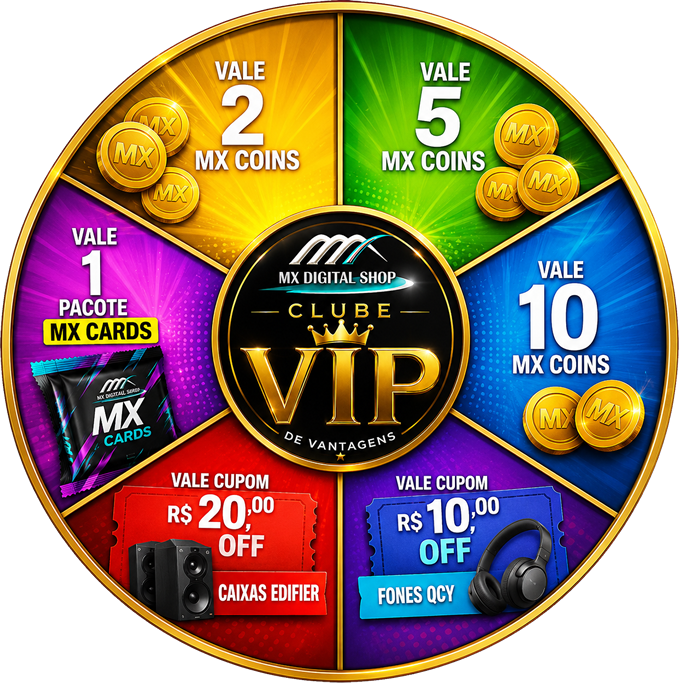
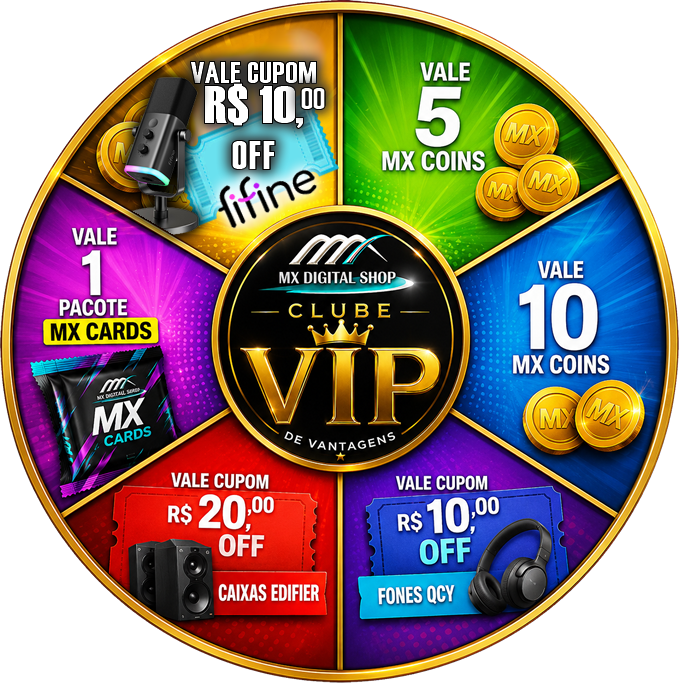
Add files via upload

Changed region(s): [[0.1546, 0.0307, 0.4948, 0.369]]

diff --git a/index.html b/index.html
@@ -99,16 +99,16 @@
         }
         .roulette-marker {
             position: absolute;
-            top: -6px;
+            top: -12px;
             left: 50%;
             transform: translateX(-50%);
             width: 0;
             height: 0;
-            border-left: 8px solid transparent;
-            border-right: 8px solid transparent;
-            border-top: 14px solid #ef4444;
+            border-left: 10px solid transparent;
+            border-right: 10px solid transparent;
+            border-top: 18px solid #ef4444;
             z-index: 30;
-            filter: drop-shadow(0 2px 4px rgba(0,0,0,0.2));
+            filter: drop-shadow(0 2px 4px rgba(0,0,0,0.3));
         }
 
         /* Timer Flutuante e Efeitos */
@@ -244,7 +244,7 @@
                     <div class="flex-1 flex flex-col justify-between h-full py-1">
                         <div>
                             <h4 class="font-black text-orange-500 uppercase tracking-wider text-xs">🎰 MX GIRO DA SORTE</h4>
-                            <p class="text-[10px] text-gray-500 mt-0.5 leading-tight">Ganhe Moedas, Cupons Edifier, QCY ou pacotes de Cards!</p>
+                            <p class="text-[10px] text-gray-500 mt-0.5 leading-tight">Ganhe Moedas, Cupons Edifier, QCY, Fifine ou pacotes de Cards!</p>
                         </div>
                         <button id="btn-spin" onclick="spinRoulette()" class="mt-3 bg-gradient-to-r from-orange-400 to-orange-500 text-white font-black py-2 rounded-lg tracking-wide uppercase shadow border-0 transition active:scale-95 cursor-pointer w-full text-center">
                             🎲 GIRAR POR 🪙3 MX
@@ -310,7 +310,7 @@
         <div id="tab-produtos" class="tab-content hidden space-y-4">
             <div class="bg-orange-50 p-2.5 rounded-lg border border-orange-100 text-[11px] text-orange-700 flex items-center gap-2">
                 <span>🔥</span>
-                <p>Toque em qualquer card de produto para ver as especificações e garantir seu desconto exclusivo no WhatsApp!</p>
+                <p>Toque em qualquer card para comprar no WhatsApp com cupom ativo e garantia de entrega!</p>
             </div>
             <div class="shopee-grid" id="products-list"></div>
         </div>
@@ -331,23 +331,19 @@
             <div class="space-y-4 text-xs text-gray-600 leading-relaxed">
                 <div>
                     <h4 class="font-extrabold text-gray-900 text-sm mb-1">🎯 1. Objetivo</h4>
-                    <p>Colecione todos os **24 MX Cards** exclusivos dentro do aplicativo para completar o seu álbum digital de equipamentos de áudio e estúdio[cite: 1].</p>
+                    <p>Colecione todos os **24 MX Cards** para fechar seu álbum digital[cite: 1].</p>
                 </div>
                 <div>
                     <h4 class="font-extrabold text-gray-900 text-sm mb-1">🔄 2. Sistema de Trocas (3 por 1)</h4>
-                    <p>Tem cartas repetidas? Assim que você acumular **3 ou mais cópias** de qualquer card, você pode trocá-las instantaneamente por um pacote novinho contendo 3 cards surpresas clicando no botão que aparece abaixo da carta!</p>
+                    <p>Acumule **3 ou mais cópias** de qualquer card para trocá-las instantaneamente por um pacote novinho contendo 3 cartas surpresa!</p>
                 </div>
                 <div>
                     <h4 class="font-extrabold text-gray-900 text-sm mb-1">💰 3. O Grande Prêmio</h4>
-                    <p>O primeiro participante que completar a coleção completa receberá um **MX SUPER PIX de R$ 1.000,00**[cite: 1]. A retirada é feita clicando no botão oficial de resgate[cite: 1].</p>
+                    <p>O primeiro participante que completar a coleção completa receberá um **MX SUPER PIX de R$ 1.000,00**[cite: 1].</p>
                 </div>
                 <div>
-                    <h4 class="font-extrabold text-gray-900 text-sm mb-1">⏱ 4. Timer de Recompensas</h4>
-                    <p>Fique de olho no timer flutuante de 15 segundos! Quando a contagem zerar, o botão ficará pronto e verde. Toque nele para coletar +2 MX Coins na hora!</p>
-                </div>
-                <div>
-                    <h4 class="font-extrabold text-gray-900 text-sm mb-1">⚠ 5. Expiração Diária de Cupons</h4>
-                    <p>Atenção! Todos os prêmios acumulados no Baú (Cupons, Vales-Brindes e pacotes extras) **expiram e deixam de valer no final do dia (à meia-noite)**. Use seus cupons e descontos antes que o dia termine![cite: 1]</p>
+                    <h4 class="font-extrabold text-gray-900 text-sm mb-1">⚠ 4. Expiração Diária de Cupons</h4>
+                    <p>Atenção! Todos os prêmios acumulados no Baú (Cupons e Vales-Brindes) **expiram e deixam de valer à meia-noite**[cite: 1]. Use seus descontos antes que o dia termine![cite: 1]</p>
                 </div>
             </div>
 
@@ -449,48 +445,48 @@
     <script>
         const CARD_24_LIBERADO = false; 
 
+        // Adicionada a quantidade de vendas simuladas (estilo Shopee) para prova social
         const PRODUCTS_DATA = [
-            { id: 1, name: "Tripé Ulanzi TT88", brand: "Ulanzi", price: 149.90, main_image: "MXCARD1.jpg", desc: "Tripé portátil de alta qualidade para criadores de conteúdo. Super leve, robusto e ideal para gravações de lives." },
-            { id: 2, name: "LED Ulanzi VL120 RGB", brand: "Ulanzi", price: 189.90, main_image: "MXCARD2.jpg", desc: "Iluminador LED compacto de bolso com controle total RGB. Perfeito para dar aquela atmosfera neon estilosa aos seus vídeos." },
-            { id: 3, name: "Mic Lapela Ulanzi A200", brand: "Ulanzi", price: 299.90, main_image: "MXCARD3.jpg", desc: "Microfone de tempo real sem fio com excelente cancelamento de ruído. Captação limpa e nítida para vlogs." },
-            { id: 4, name: "Microfone FIFINE AM8", brand: "Fifine", price: 439.90, main_image: "MXCARD4.jpg", desc: "Microfone dinâmico profissional com conexões XLR e USB, além de iluminação RGB personalizável." },
-            { id: 5, name: "Suporte Fifine BM88", brand: "Fifine", price: 329.90, main_image: "MXCARD5.jpg", desc: "Braço articulado de perfil baixo (low-profile). Deixa seu setup limpo, escondendo-se abaixo do monitor." },
-            { id: 6, name: "Microfone FIFINE AM8T", brand: "Fifine", price: 499.90, main_image: "MXCARD6.jpg", desc: "Kit completo do consagrado microfone dinâmico AM8 acompanhado de um braço articulado robusto de fábrica." },
-            { id: 7, name: "Caixa BT Tronsmart T8", brand: "Tronsmart", price: 219.90, main_image: "MXCARD7.jpg", desc: "Caixa de som Bluetooth portátil com graves reforçados e proteção contra respingos. Som de alta fidelidade." },
-            { id: 8, name: "QCY T13", brand: "QCY", price: 129.90, main_image: "MXCARD8.jpg", desc: "O campeão mundial de custo-benefício em fones TWS. Bateria de longa duração e carregamento rápido." },
-            { id: 9, name: "QCY MELOBUDS N50", brand: "QCY", price: 159.90, main_image: "MXCARD9.jpg", desc: "Fone de ouvido ergonômico focado em isolamento acústico passivo e clareza vocal perfeita." },
-            { id: 10, name: "QCY MELOBUDS PRO BK", brand: "QCY", price: 249.90, main_image: "MXCARD10.jpg", desc: "Versão Pro com Cancelamento de Ruído Activo (ANC) avançado e drivers refinados para áudio de alta resolução." },
-            { id: 11, name: "QCY AILYBUDS PRO+", brand: "QCY", price: 219.90, main_image: "MXCARD11.jpg", desc: "Design semi-in-ear ultra confortável que não incomoda no ouvido, aliado a um codec de alta definição." },
-            { id: 12, name: "QCY H3 ANC", brand: "QCY", price: 299.90, main_image: "MXCARD12.jpg", desc: "Fone de ouvido no estilo Headphone com Cancelamento Ativo de Ruído de até 43dB. Almofadas macias."} ,
-            { id: 13, name: "QCY H3S", brand: "QCY", price: 349.90, main_image: "MXCARD13.jpg", desc: "Evolução da linha H3 com melhorias nos microfones para chamadas de voz e maior autonomia de bateria." },
-            { id: 14, name: "Tronsmart Mirtune S100", brand: "Tronsmart", price: 459.90, main_image: "MXCARD14.jpg", desc: "Caixa de som portátil premium com alça integrada. Som expansivo de alta potência ideal para qualquer ambiente." },
-            { id: 15, name: "Tronsmart Bang 2", brand: "Tronsmart", price: 699.90, main_image: "MXCARD15.jpg", desc: "Potência sonora animal! Luzes de LED rítmicas integradas e tecnologia patenteada SoundPulse." },
-            { id: 16, name: "Edifier M206BT", brand: "Edifier", price: 399.90, main_image: "MXCARD16.jpg", desc: "Sistema de caixas 2.1 com Subwoofer dedicado em madeira. Graves que fazem o ambiente tremer." },
-            { id: 17, name: "Mi TV STICK 4K 2ª Gen", brand: "Xiaomi", price: 329.90, main_image: "MXCARD17.jpg", desc: "Transforme qualquer TV em uma Smart TV veloz com resolução 4K Ultra HD e suporte a comandos de voz." },
-            { id: 18, name: "Climatizador Ventisol 16L", brand: "Ventisol", price: 489.90, main_image: "MXCARD18.jpg", desc: "Climatizador potente com grande reservatório de 16 litros. Ar fresco, umidificado e filtrado."} ,
-            { id: 19, name: "Gamesir G8 Galileo Plus", brand: "Gamesir", price: 479.90, main_image: "MXCARD19.jpg", desc: "O controle definitivo para jogos de celular. Analógicos com efeito Hall e encaixe ergonômico firme." },
-            { id: 20, name: "Mic Lapela Hollyland Lark M2", brand: "Hollyland", price: 999.90, main_image: "MXCARD20.jpg", desc: "Microfone sem fio nível cinematográfico do tamanho de um botão. Usado pelos maiores profissionais." },
-            { id: 21, name: "Tribit Stormbox Blast 2", brand: "Tribit", price: 1599.90, main_image: "MXCARD21.jpg", desc: "Considerada uma das melhores caixas de som Bluetooth do mundo na sua categoria. Potência descomunal." },
-            { id: 22, name: "Edifier R1000T4", brand: "Edifier", price: 549.90, main_image: "MXCARD22.jpg", desc: "Monitores de áudio activos clássicos em madeira. Som puríssimo, excelente para edição ou audição de estúdio." },
-            { id: 23, name: "Edifier MR4", brand: "Edifier", price: 699.90, main_image: "MXCARD23.jpg", desc: "Monitores de áudio profissionais calibrados para alta precisão acústica. Perfeitos para músicos." },
-            { id: 24, name: "Edifier R1700BT", brand: "Edifier", price: 899.90, main_image: "MXCARD24.jpg", desc: "Caixas de som residenciais Bluetooth com design angulado elegante e controle remoto incluso. [CARD ULTRA RARO]" }
+            { id: 1, name: "Tripé Ulanzi TT88", brand: "Ulanzi", price: 149.90, main_image: "MXCARD1.jpg", desc: "Tripé portátil de alta qualidade para criadores de conteúdo. Super leve, robusto e ideal para gravações de lives.", sales: 42, rating: 4.8 },
+            { id: 2, name: "LED Ulanzi VL120 RGB", brand: "Ulanzi", price: 189.90, main_image: "MXCARD2.jpg", desc: "Iluminador LED compacto de bolso com controle total RGB. Perfeito para dar aquela atmosfera neon estilosa aos seus vídeos.", sales: 79, rating: 4.9 },
+            { id: 3, name: "Mic Lapela Ulanzi A200", brand: "Ulanzi", price: 299.90, main_image: "MXCARD3.jpg", desc: "Microfone de tempo real sem fio com excelente cancelamento de ruído. Captação limpa e nítida para vlogs.", sales: 21, rating: 4.7 },
+            { id: 4, name: "Microfone FIFINE AM8", brand: "Fifine", price: 439.90, main_image: "MXCARD4.jpg", desc: "Microfone dinâmico profissional com conexões XLR e USB, além de iluminação RGB personalizável.", sales: 114, rating: 5.0 },
+            { id: 5, name: "Suporte Fifine BM88", brand: "Fifine", price: 329.90, main_image: "MXCARD5.jpg", desc: "Braço articulado de perfil baixo (low-profile). Deixa seu setup limpo, escondendo-se abaixo do monitor.", sales: 38, rating: 4.8 },
+            { id: 6, name: "Microfone FIFINE AM8T", brand: "Fifine", price: 499.90, main_image: "MXCARD6.jpg", desc: "Kit completo do consagrado microfone dinâmico AM8 acompanhado de um braço articulado robusto de fábrica.", sales: 153, rating: 4.9 },
+            { id: 7, name: "Caixa BT Tronsmart T8", brand: "Tronsmart", price: 219.90, main_image: "MXCARD7.jpg", desc: "Caixa de som Bluetooth portátil com graves reforçados e proteção contra respingos. Som de alta fidelidade.", sales: 55, rating: 4.6 },
+            { id: 8, name: "QCY T13", brand: "QCY", price: 129.90, main_image: "MXCARD8.jpg", desc: "O campeão mundial de custo-benefício em fones TWS. Bateria de longa duração e carregamento rápido.", sales: 341, rating: 4.9 },
+            { id: 9, name: "QCY MELOBUDS N50", brand: "QCY", price: 159.90, main_image: "MXCARD9.jpg", desc: "Fone de ouvido ergonômico focado em isolamento acústico passivo e clareza vocal perfeita.", sales: 88, rating: 4.8 },
+            { id: 10, name: "QCY MELOBUDS PRO BK", brand: "QCY", price: 249.90, main_image: "MXCARD10.jpg", desc: "Versão Pro com Cancelamento de Ruído Activo (ANC) avançado e drivers refinados para áudio de alta resolução.", sales: 167, rating: 4.9 },
+            { id: 11, name: "QCY AILYBUDS PRO+", brand: "QCY", price: 219.90, main_image: "MXCARD11.jpg", desc: "Design semi-in-ear ultra confortável que não incomoda no ouvido, aliado a um codec de alta definição.", sales: 74, rating: 4.7 },
+            { id: 12, name: "QCY H3 ANC", brand: "QCY", price: 299.90, main_image: "MXCARD12.jpg", desc: "Fone de ouvido no estilo Headphone com Cancelamento Ativo de Ruído de até 43dB. Almofadas macias.", sales: 219, rating: 4.9 },
+            { id: 13, name: "QCY H3S", brand: "QCY", price: 349.90, main_image: "MXCARD13.jpg", desc: "Evolução da linha H3 com melhorias nos microfones para chamadas de voz e maior autonomia de bateria.", sales: 95, rating: 4.8 },
+            { id: 14, name: "Tronsmart Mirtune S100", brand: "Tronsmart", price: 459.90, main_image: "MXCARD14.jpg", desc: "Caixa de som portátil premium com alça integrada. Som expansivo de alta potência ideal para qualquer ambiente.", sales: 34, rating: 4.7 },
+            { id: 15, name: "Tronsmart Bang 2", brand: "Tronsmart", price: 699.90, main_image: "MXCARD15.jpg", desc: "Potência sonora animal! Luzes de LED rítmicas integradas e tecnologia patenteada SoundPulse.", sales: 18, rating: 4.9 },
+            { id: 16, name: "Edifier M206BT", brand: "Edifier", price: 399.90, main_image: "MXCARD16.jpg", desc: "Sistema de caixas 2.1 com Subwoofer dedicado em madeira. Graves que fazem o ambiente tremer.", sales: 62, rating: 4.8 },
+            { id: 17, name: "Mi TV STICK 4K 2ª Gen", brand: "Xiaomi", price: 329.90, main_image: "MXCARD17.jpg", desc: "Transforme qualquer TV em uma Smart TV veloz com resolução 4K Ultra HD e suporte a comandos de voz.", sales: 145, rating: 4.8 },
+            { id: 18, name: "Climatizador Ventisol 16L", brand: "Ventisol", price: 489.90, main_image: "MXCARD18.jpg", desc: "Climatizador potente com grande reservatório de 16 litros. Ar fresco, umidificado e filtrado.", sales: 29, rating: 4.5 },
+            { id: 19, name: "Gamesir G8 Galileo Plus", brand: "Gamesir", price: 479.90, main_image: "MXCARD19.jpg", desc: "O controle definitivo para jogos de celular. Analógicos com efeito Hall e encaixe ergonômico firme.", sales: 83, rating: 4.9 },
+            { id: 20, name: "Mic Lapela Hollyland Lark M2", brand: "Hollyland", price: 999.90, main_image: "MXCARD20.jpg", desc: "Microfone sem fio nível cinematográfico do tamanho de um botão. Usado pelos maiores profissionais.", sales: 14, rating: 5.0 },
+            { id: 21, name: "Tribit Stormbox Blast 2", brand: "Tribit", price: 1599.90, main_image: "MXCARD21.jpg", desc: "Considerada uma das melhores caixas de som Bluetooth do mundo na sua categoria. Potência descomunal.", sales: 9, rating: 4.9 },
+            { id: 22, name: "Edifier R1000T4", brand: "Edifier", price: 549.90, main_image: "MXCARD22.jpg", desc: "Monitores de áudio activos clássicos em madeira. Som puríssimo, excelente para edição ou audição de estúdio.", sales: 104, rating: 4.8 },
+            { id: 23, name: "Edifier MR4", brand: "Edifier", price: 699.90, main_image: "MXCARD23.jpg", desc: "Monitores de áudio profissionais calibrados para alta precisão acústica. Perfeitos para músicos.", sales: 91, rating: 4.9 },
+            { id: 24, name: "Edifier R1700BT", brand: "Edifier", price: 899.90, main_image: "MXCARD24.jpg", desc: "Caixas de som residenciais Bluetooth com design angulado elegante e controle remoto incluso. [CARD ULTRA RARO]", sales: 48, rating: 5.0 }
         ];
 
-        // CONFIGURAÇÃO DOS SETORES DA ROLETINHA
+        // MAPEAMENTO ESTRUTURADO DOS SETORES DA ROLETINHA CONFORME IMAGEM DO USUÁRIO
         const SPIN_REWARDS = [
-            { label: "Vale 2 MX Coins", type: "coins", value: 2, icon: "🪙" },
-            { label: "Vale 5 MX Coins", type: "coins", value: 5, icon: "🪙" },
-            { label: "Vale 10 MX Coins", type: "coins", value: 10, icon: "🪙" },
-            { label: "Cupom R$ 10 QCY", type: "coupon", value: "Cupom R$ 10,00 OFF Fones QCY", icon: "🎟" },
-            { label: "Cupom R$ 20 Edifier", type: "coupon", value: "Cupom R$ 20,00 OFF Caixas Edifier", icon: "🎟" },
-            { label: "Vale 1 Pacote MX Cards", type: "bonus_pack", value: 1, icon: "📦" }
+            { label: "Vale Cupom R$ 10 Fifine", type: "coupon", brand: "Fifine", discount: 10.00, value: "Cupom R$ 10,00 OFF Produtos Fifine", icon: "🎟", targetAngle: 60 },
+            { label: "Vale 1 Pacote MX Cards", type: "bonus_pack", value: 1, icon: "📦", targetAngle: 120 },
+            { label: "Vale Cupom R$ 20 Edifier", type: "coupon", brand: "Edifier", discount: 20.00, value: "Cupom R$ 20,00 OFF Caixas Edifier", icon: "🎟", targetAngle: 180 },
+            { label: "Vale Cupom R$ 10 QCY", type: "coupon", brand: "QCY", discount: 10.00, value: "Cupom R$ 10,00 OFF Fones QCY", icon: "🎟", targetAngle: 240 },
+            { label: "Vale 10 MX Coins", type: "coins", value: 10, icon: "🪙", targetAngle: 300 },
+            { label: "Vale 5 MX Coins", type: "coins", value: 5, icon: "🪙", targetAngle: 360 }
         ];
 
         let userState = {
             coins: 10,
             claimedVipFreePack: false,
             inventory: {},
-            bonusPackCount: 0,          
             wonGrandPrize: false,
             lastCheckInDate: null,
             packsOpenedToday: 0,
@@ -580,11 +576,11 @@
 
         // --- SISTEMA DE PERSISTÊNCIA ---
         function saveState() {
-            localStorage.setItem('mx_state_v2', JSON.stringify(userState));
+            localStorage.setItem('mx_state_v2_stable', JSON.stringify(userState));
         }
 
         function loadState() {
-            const saved = localStorage.getItem('mx_state_v2');
+            const saved = localStorage.getItem('mx_state_v2_stable');
             if (saved) {
                 try {
                     userState = JSON.parse(saved);
@@ -592,7 +588,6 @@
                     if (userState.brindeFisicoDesbloqueado === undefined) userState.brindeFisicoDesbloqueado = false;
                     if (userState.brindeCoinsDesbloqueado === undefined) userState.brindeCoinsDesbloqueado = false;
                     if (!userState.coupons) userState.coupons = [];
-                    if (userState.bonusPackCount === undefined) userState.bonusPackCount = 0;
                 } catch(e) { console.error("Erro ao carregar progresso", e); }
             }
             checkDailyExpiration();
@@ -607,8 +602,7 @@
                 userState.packsOpenedToday = 0;
                 userState.brindeFisicoDesbloqueado = false;
                 userState.brindeCoinsDesbloqueado = false;
-                userState.coupons = [];
-                userState.bonusPackCount = 0;
+                userState.coupons = []; // Zera os cupons[cite: 1]
                 saveState();
             }
         }
@@ -632,6 +626,25 @@
                     activeBtn.className = "py-2.5 text-xs font-bold rounded-lg transition-all bg-orange-400 text-white flex flex-col items-center justify-center gap-0.5 relative";
                 }
             }
+        }
+
+        // --- FUNÇÕES DE AUXÍLIO PARA OS CUPONS ---
+        function getActiveCouponForBrand(brand) {
+            // Busca o cupom ativo correspondente à marca (Fifine, QCY ou Edifier)
+            return userState.coupons.find(c => c.toLowerCase().includes(brand.toLowerCase()));
+        }
+
+        function calculateDiscountedPrice(product) {
+            const cup = getActiveCouponForBrand(product.brand);
+            if (!cup) return product.price;
+
+            // Extrai o valor do desconto (ex: "Cupom R$ 10,00" -> 10)
+            const match = cup.match(/R\$\s*([0-9,.]+)/i);
+            if (match) {
+                const discountValue = parseFloat(match[1].replace(',', '.'));
+                return Math.max(0.1, product.price - discountValue);
+            }
+            return product.price;
         }
 
         // --- UPDATE UI ---
@@ -799,25 +812,45 @@
             triggerPackOpening('trade_swap');
         }
 
+        // --- RENDERIZAR MX PRODUTOS (COM DESCONTO SE ATIVO + DETALHES SHOPEE) ---
         function renderProducts() {
             const container = document.getElementById('products-list');
             container.innerHTML = '';
 
             PRODUCTS_DATA.forEach(p => {
+                const discountCoupon = getActiveCouponForBrand(p.brand);
+                const originalPrice = p.price;
+                const finalPrice = calculateDiscountedPrice(p);
+                const hasDiscount = discountCoupon !== undefined;
+
                 const card = document.createElement('div');
-                card.className = "shopee-card cursor-pointer";
+                card.className = "shopee-card cursor-pointer hover:shadow-md transition duration-200";
                 card.onclick = () => inspectProduct(p.id, true);
 
                 card.innerHTML = `
-                    <div class="w-full aspect-square bg-gray-50 flex items-center justify-center overflow-hidden">
+                    <div class="w-full aspect-square bg-gray-50 flex items-center justify-center overflow-hidden relative">
                         <img src="${p.main_image}" alt="${p.name}" class="object-cover w-full h-full" onerror="this.src='roleta.png'">
+                        ${hasDiscount ? `
+                            <span class="absolute top-1.5 left-1.5 bg-red-500 text-white font-black text-[8px] px-1.5 py-0.5 rounded shadow-sm uppercase tracking-wide animate-pulse">
+                                🎟 R$ ${(originalPrice - finalPrice).toFixed(0)} OFF ATIVO!
+                            </span>
+                        ` : ''}
                     </div>
                     <div class="p-2.5 space-y-1">
-                        <span class="text-[8px] font-black uppercase text-orange-500 tracking-wider bg-orange-50 px-1.5 py-0.5 rounded">${p.brand}</span>
+                        <div class="flex items-center justify-between">
+                            <span class="text-[8px] font-black uppercase text-orange-500 tracking-wider bg-orange-50 px-1.5 py-0.5 rounded">${p.brand}</span>
+                            <!-- Avaliação e Vendas Estilo Shopee -->
+                            <span class="text-[9px] text-gray-400 font-medium">⭐ ${p.rating} (${p.sales} vendidos)</span>
+                        </div>
                         <h4 class="text-xs font-bold text-gray-800 truncate mt-1 leading-tight">${p.name}</h4>
-                        <div class="flex items-baseline justify-between mt-2">
-                            <span class="text-xs font-black text-orange-500">R$ ${p.price.toFixed(2)}</span>
-                            <span class="text-[9px] text-green-600 font-bold">WhatsApp 🟢</span>
+                        <div class="flex flex-col mt-2">
+                            ${hasDiscount ? `
+                                <span class="text-[9px] text-gray-400 line-through leading-none">R$ ${originalPrice.toFixed(2)}</span>
+                                <span class="text-sm font-black text-red-500">R$ ${finalPrice.toFixed(2)}</span>
+                            ` : `
+                                <span class="text-xs font-black text-orange-500">R$ ${originalPrice.toFixed(2)}</span>
+                            `}
+                            <span class="text-[8px] text-green-600 font-bold mt-0.5">🟢 Chamar no WhatsApp</span>
                         </div>
                     </div>
                 `;
@@ -856,9 +889,14 @@
                         <h4 class="text-xs font-black text-gray-800">🎟 ${cup}</h4>
                         <p class="text-[10px] text-red-500 leading-tight font-bold uppercase">Expira no final do dia![cite: 1]</p>
                     </div>
-                    <button onclick="window.open('https://wa.me/5541997257227?text=Quero%20resgatar%20meu%20${encodeURIComponent(cup)}%20do%20App!', '_blank')" class="bg-green-500 hover:bg-green-600 text-white font-black text-[10px] px-3 py-2 rounded-lg uppercase shadow">
-                        Resgatar
-                    </button>
+                    <div class="flex gap-1.5">
+                        <button onclick="switchTab('produtos')" class="bg-orange-500 text-white font-black text-[10px] px-2.5 py-2 rounded-lg uppercase shadow">
+                            Ver Itens
+                        </button>
+                        <button onclick="window.open('https://wa.me/5541997257227?text=Quero%20resgatar%20meu%20${encodeURIComponent(cup)}%20do%20App!', '_blank')" class="bg-green-500 hover:bg-green-600 text-white font-black text-[10px] px-2.5 py-2 rounded-lg uppercase shadow">
+                            Ativar
+                        </button>
+                    </div>
                 `;
                 container.appendChild(row);
             });
@@ -879,7 +917,7 @@
             const product = PRODUCTS_DATA.find(p => p.id === id);
             if (!product) return;
 
-            document.getElementById('gallery-brand').textContent = product.brand;
+            document.getElementById('gallery-brand').textContent = `${product.brand} | ⭐ ${product.rating} (${product.sales} vendidos)`;
             document.getElementById('gallery-title').textContent = product.name;
             document.getElementById('gallery-desc').textContent = product.desc;
 
@@ -890,12 +928,22 @@
             const priceVal = document.getElementById('gallery-price');
             const buyBtn = document.getElementById('gallery-buy-btn');
 
+            const discountCoupon = getActiveCouponForBrand(product.brand);
+            const originalPrice = product.price;
+            const finalPrice = calculateDiscountedPrice(product);
+
             if (unlocked) {
-                priceOld.classList.remove('hidden');
-                priceOld.textContent = `De: R$ ${(product.price * 1.2).toFixed(2)}`;
-                priceVal.textContent = `Por: R$ ${product.price.toFixed(2)}`;
+                if (discountCoupon) {
+                    priceOld.classList.remove('hidden');
+                    priceOld.textContent = `De: R$ ${originalPrice.toFixed(2)}`;
+                    priceVal.textContent = `Por: R$ ${finalPrice.toFixed(2)} (Cupom Ativo!)`;
+                } else {
+                    priceOld.classList.remove('hidden');
+                    priceOld.textContent = `De: R$ ${(originalPrice * 1.2).toFixed(2)}`;
+                    priceVal.textContent = `Por: R$ ${originalPrice.toFixed(2)}`;
+                }
                 buyBtn.classList.remove('hidden');
-                buyBtn.onclick = () => window.open(`https://wa.me/5541997257227?text=Gostaria%20de%20saber%20mais%20sobre%20o%20${encodeURIComponent(product.name)}`, '_blank');
+                buyBtn.onclick = () => window.open(`https://wa.me/5541997257227?text=Gostaria%20de%20saber%20mais%20sobre%20o%20${encodeURIComponent(product.name)}%20com%20o%20preço%20especial%20de%20R$%20${finalPrice.toFixed(2)}`, '_blank');
             } else {
                 priceOld.classList.add('hidden');
                 priceVal.textContent = "Bloqueado";
@@ -995,7 +1043,7 @@
             showAlert("🪙", "Sucesso!", "Você recebeu 5 MX Coins de bônus diário!");
         }
 
-        // --- ROLETA DA SORTE ---
+        // --- ROLETA DA SORTE SINCRONIZADA ---
         function spinRoulette() {
             if (isSpinning) return;
             if (userState.coins < 3) {
@@ -1011,14 +1059,17 @@
 
             const wheel = document.getElementById('wheel');
             const randomRewardIdx = Math.floor(Math.random() * SPIN_REWARDS.length);
-            const degreeOffset = randomRewardIdx * (360 / SPIN_REWARDS.length);
-            currentRotation += 1800 + (360 - degreeOffset); 
+            const reward = SPIN_REWARDS[randomRewardIdx];
+
+            // Rotação ideal: acumula o histórico e para no ponto central exato (em graus) da fatia correspondente
+            const baseSpins = 5 * 360; // 5 voltas completas
+            const angleStop = reward.targetAngle;
+            currentRotation += baseSpins + (360 - (currentRotation % 360)) - angleStop;
             
             wheel.style.transform = `rotate(${currentRotation}deg)`;
 
             setTimeout(() => {
                 isSpinning = false;
-                const reward = SPIN_REWARDS[randomRewardIdx];
                 let rewardText = "";
 
                 if (reward.type === "coins") {
@@ -1026,17 +1077,18 @@
                     rewardText = `Parabéns! Você ganhou **+${reward.value} MX Coins**!`;
                 } else if (reward.type === "coupon") {
                     userState.coupons.push(reward.value);
-                    rewardText = `Incrível! Você desbloqueou um **${reward.value}**! Ele foi salvo no seu Baú.`;
+                    rewardText = `Incrível! Você desbloqueou um **${reward.value}**!<br><br>Ele foi aplicado aos itens da marca **${reward.brand}** na aba de produtos e salvo no seu Baú.`;
                 } else if (reward.type === "bonus_pack") {
-                    userState.bonusPackCount += reward.value;
-                    rewardText = `Fantástico! Você acumulou **+${reward.value} Pacote(s) de Cards** para abrir de graça!`;
+                    // Direciona IMEDIATAMENTE o bônus para o primeiro espaço dos Vale Brindes
+                    userState.brindeFisicoDesbloqueado = true;
+                    rewardText = `Fantástico! Você ganhou **1 Pacote de Cards**!<br><br>Ele foi enviado ao primeiro espaço dos **Vale Brindes Instantâneos** no Álbum para você abrir agora mesmo!`;
                 }
 
                 saveState();
                 updateUI();
                 playSoundWin();
                 showAlert(reward.icon, "Giro da Sorte", rewardText);
-            }, 5000); // Aguarda o final da rotação (5s) para anunciar
+            }, 5000); // 5 segundos de giro
         }
 
         // --- ABERTURA DE PACOTES ---
@@ -1049,9 +1101,6 @@
                 userState.coins -= 5;
             } else if (type === 'free') {
                 userState.claimedVipFreePack = true;
-            } else if (type === 'bonus') {
-                if (userState.bonusPackCount <= 0) return;
-                userState.bonusPackCount--;
             } else if (type === 'brinde_fisico') {
                 userState.brindeFisicoDesbloqueado = false;
             }
@@ -1083,7 +1132,7 @@
                 userState.inventory[cardId] = (userState.inventory[cardId] || 0) + 1;
             }
 
-            // Chance de dar outro vale brinde ao abrir pacotes normais
+            // Chance de conceder um brinde dinâmico ao abrir pacotes normais
             if (Math.random() < 0.15) {
                 const rand = Math.random();
                 if (rand < 0.5) {
@@ -1165,7 +1214,6 @@
                     coins: 10,
                     claimedVipFreePack: false,
                     inventory: {},
-                    bonusPackCount: 0,
                     lastCheckInDate: null,
                     packsOpenedToday: 0,
                     lastDateOpened: new Date().toDateString(),
